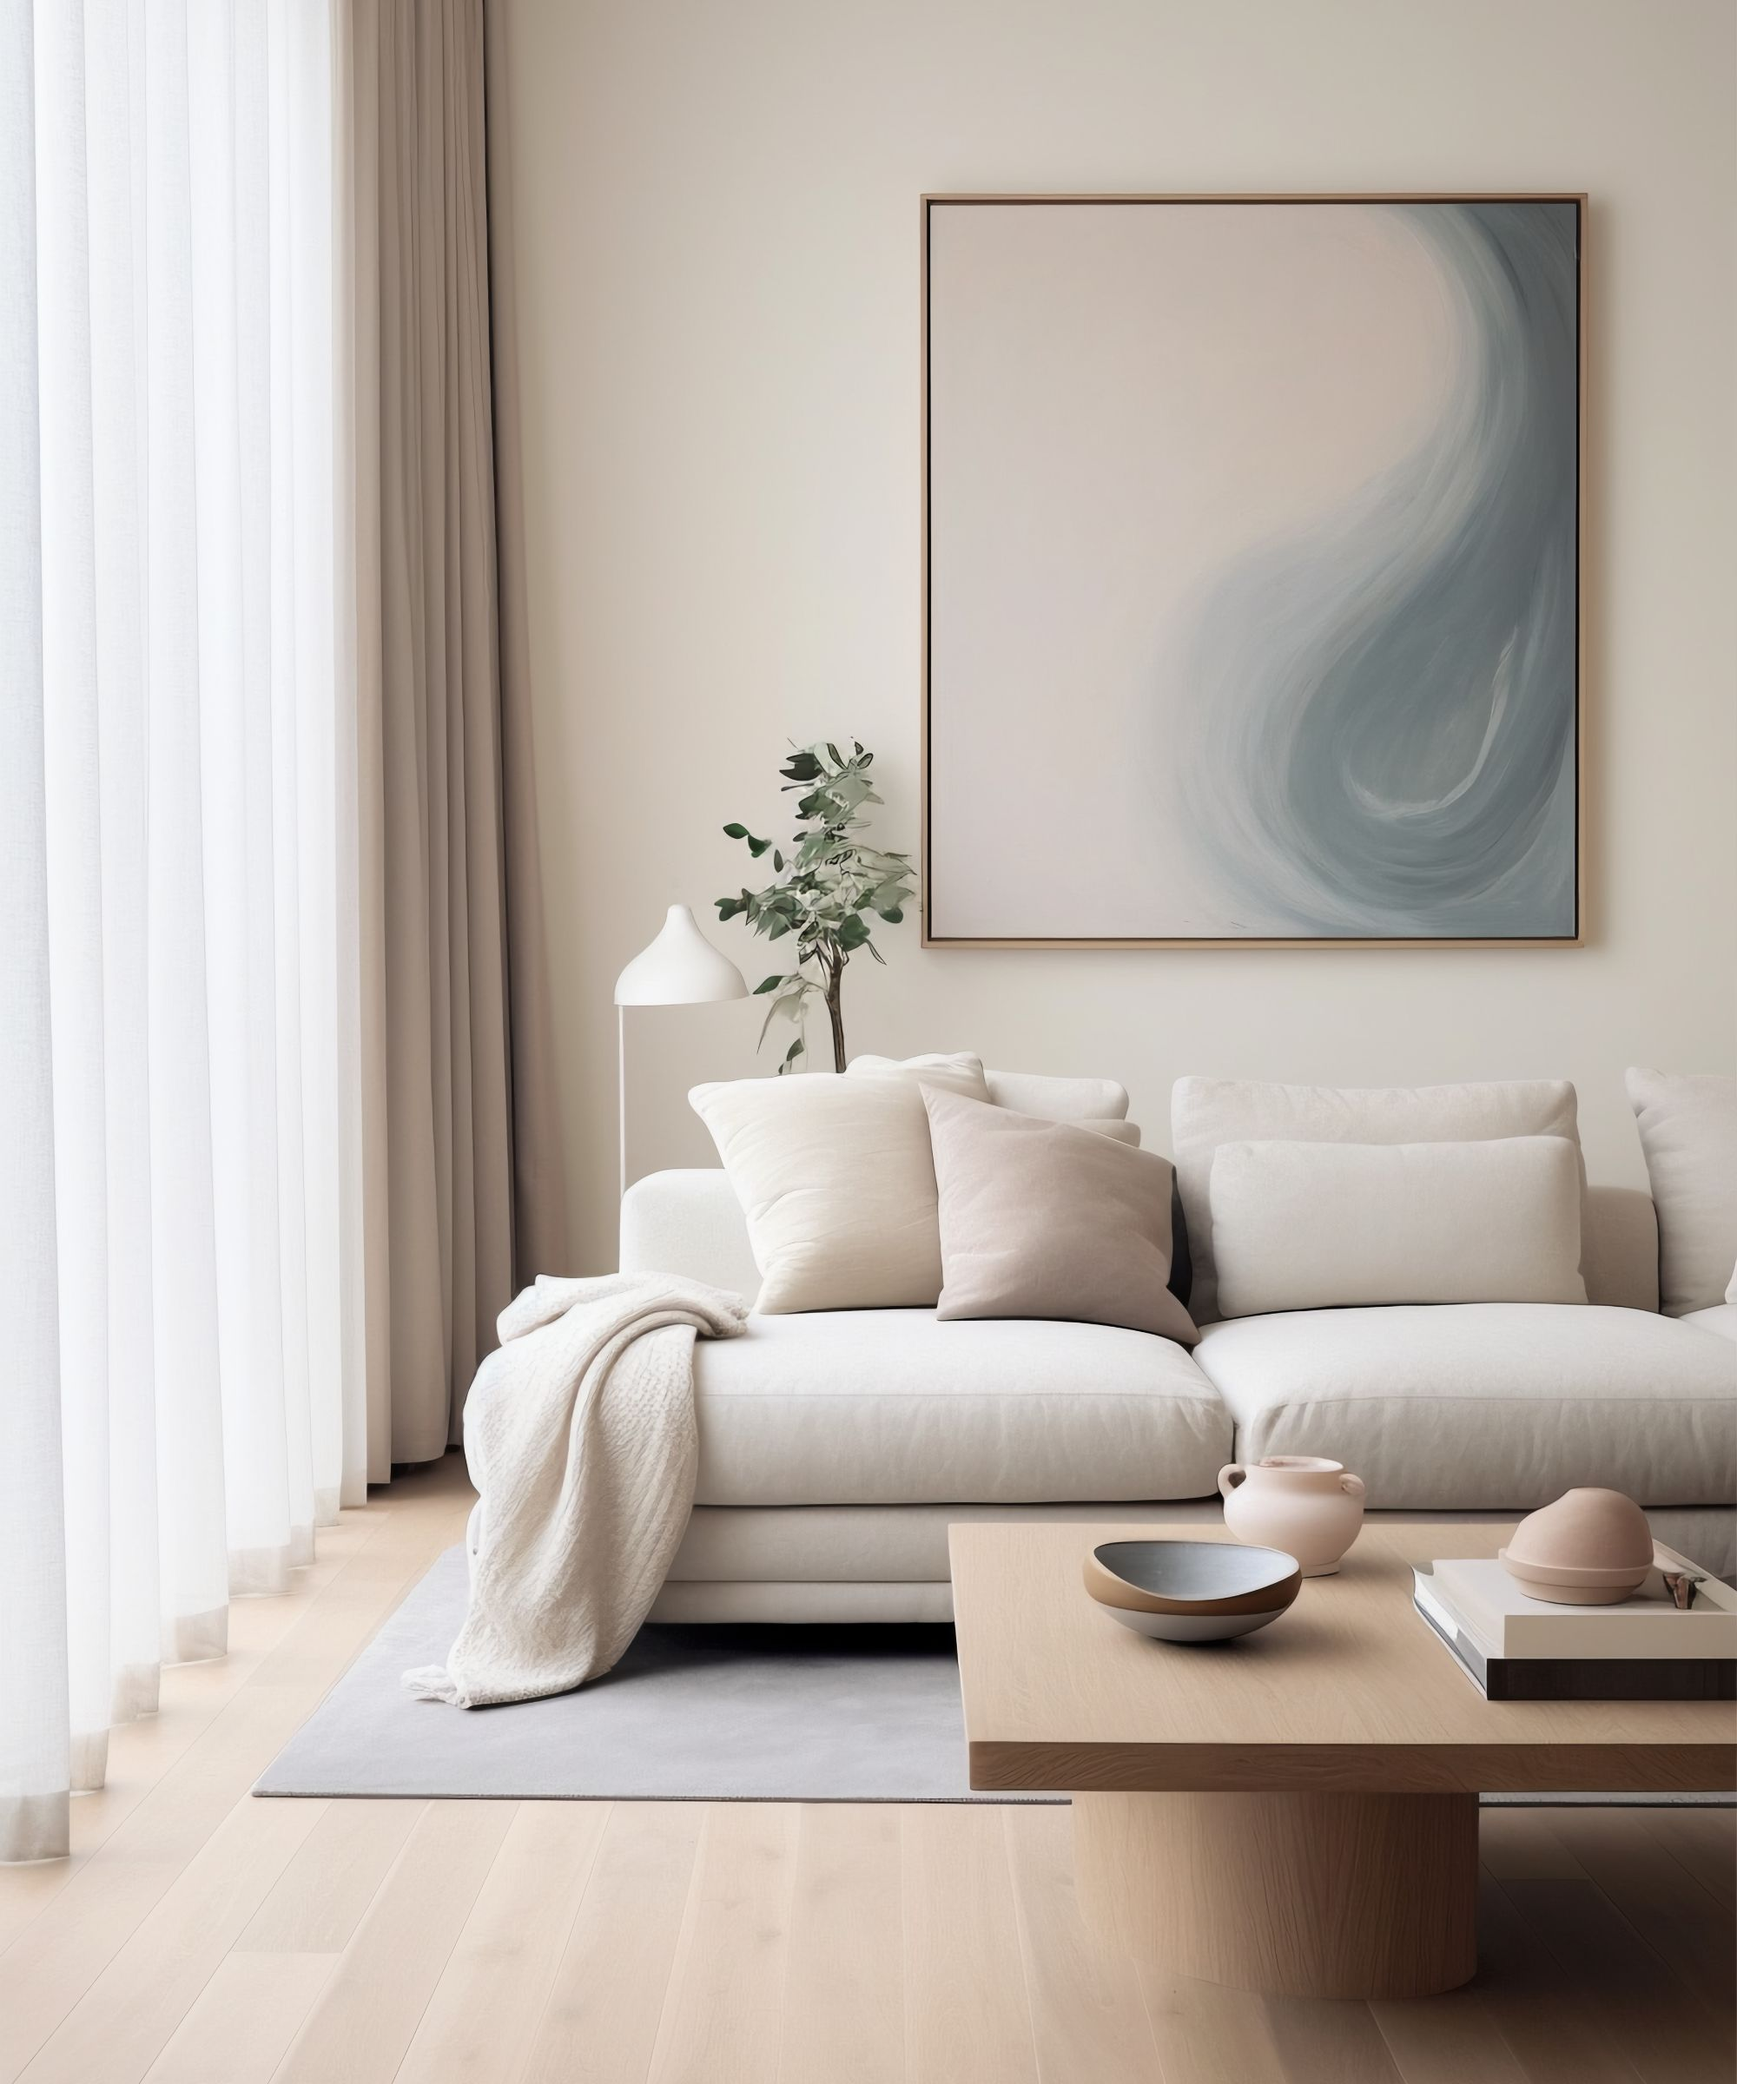
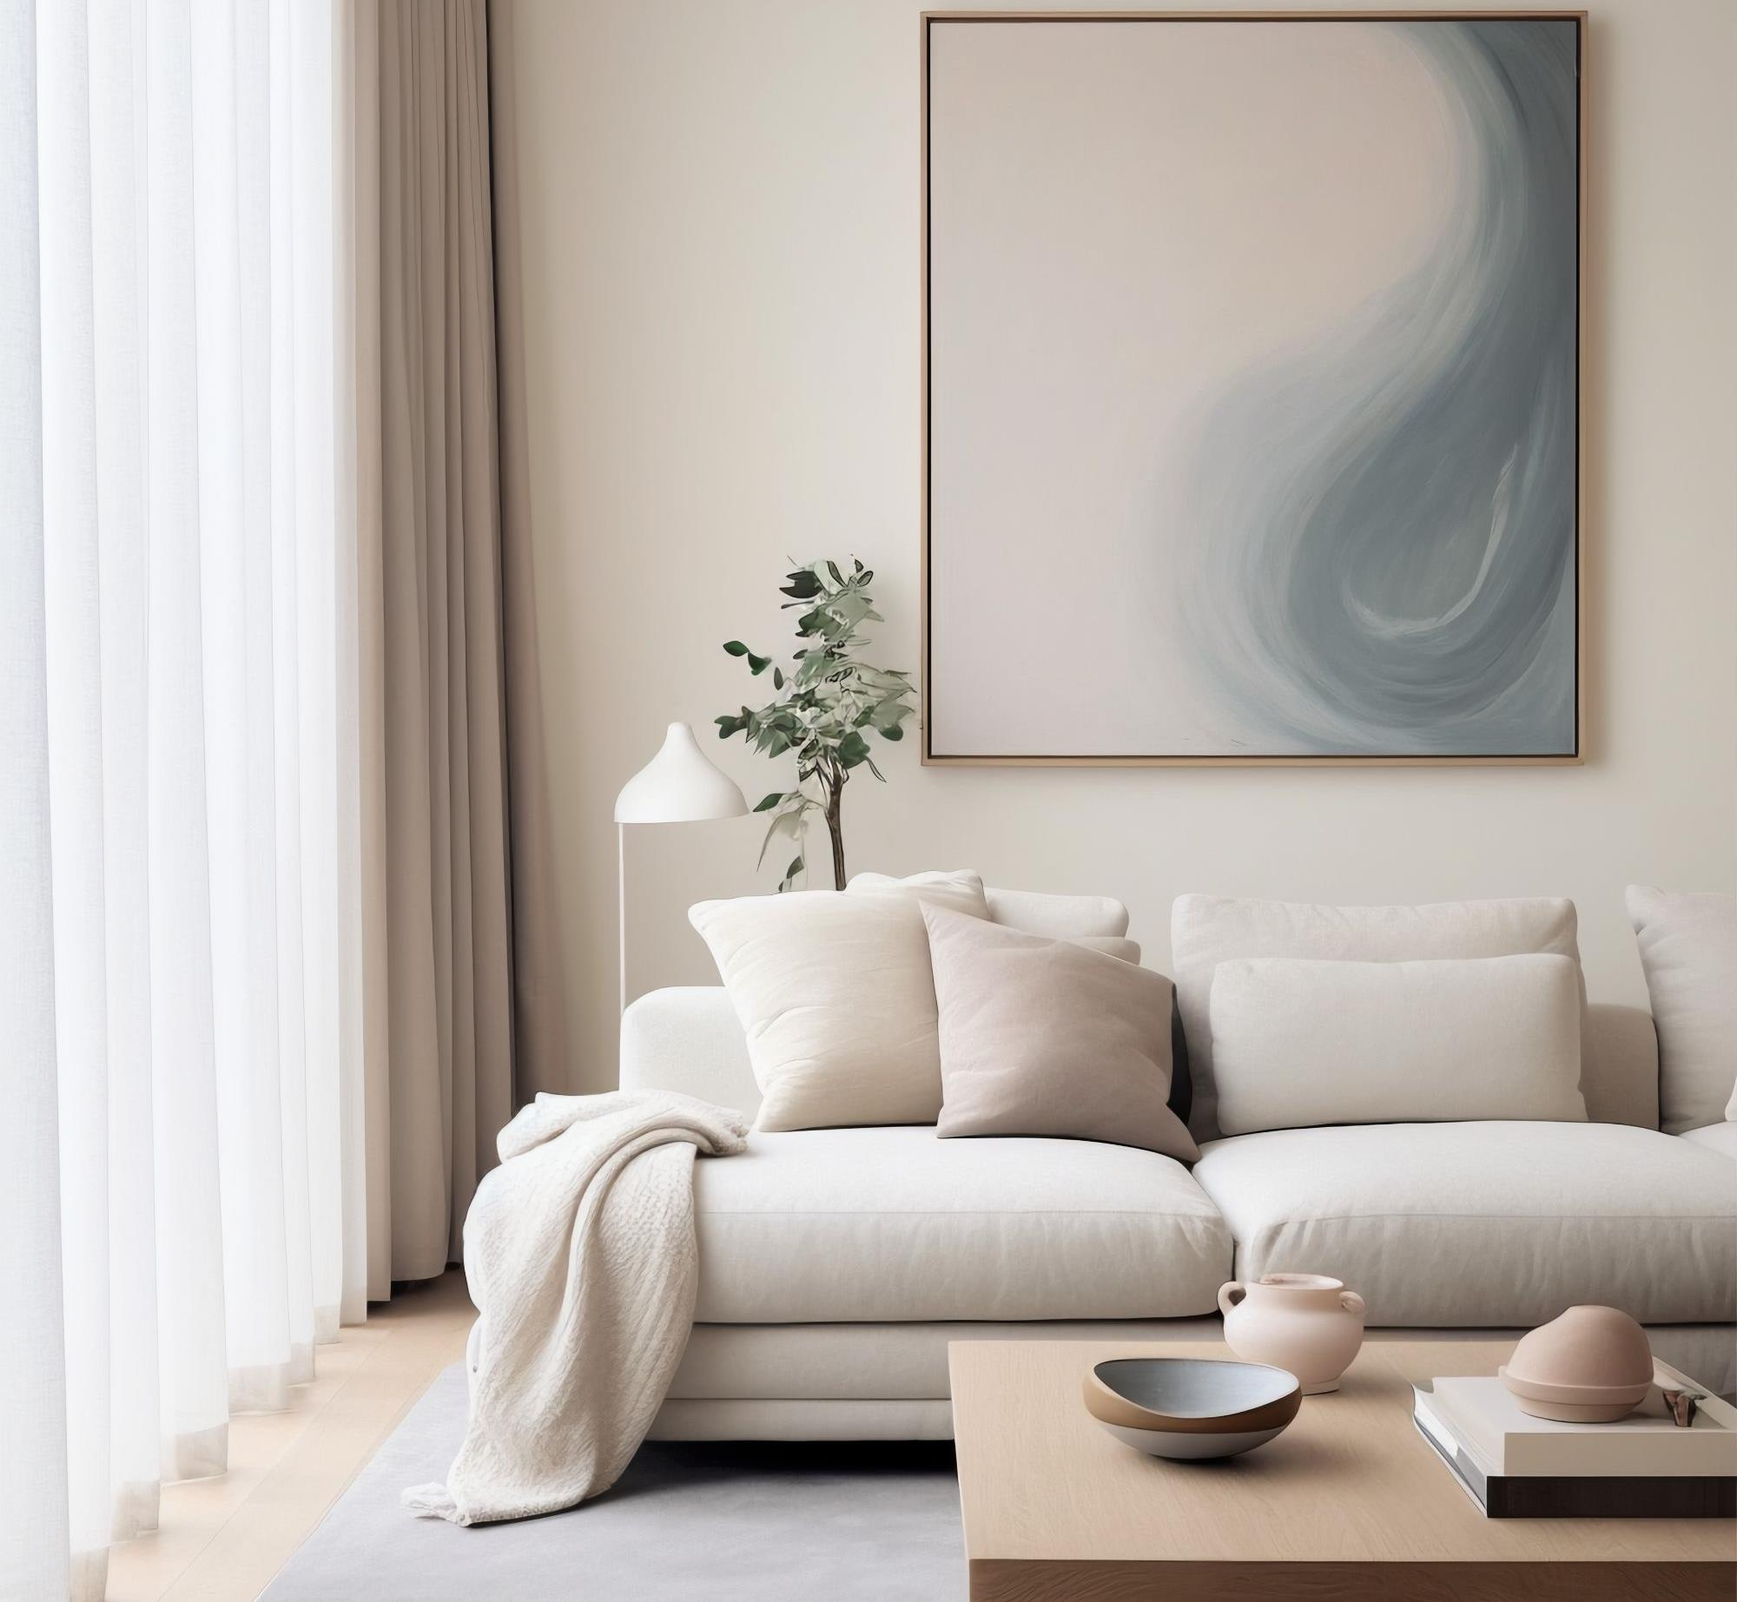
feat(buying): exact high-res cropped image and 568px container for homeownership section

diff --git a/buying.html b/buying.html
@@ -496,13 +496,13 @@ img {
 .buying-approach-img-wrap {
   position: relative;
   width: 615px;
-  height: 345px;
+  height: 568px;
   flex-shrink: 0;
 }
 
 .buying-approach-img {
   width: 615px;
-  height: 345px;
+  height: 568px;
   object-fit: cover;
   object-position: center;
   display: block;
@@ -2261,7 +2261,7 @@ li {
         
         <!-- Left Image with cyan outline -->
         <div class="buying-approach-img-wrap">
-          <img src="images/buying-approach.jpg" alt="A modern path to homeownership" class="buying-approach-img">
+          <img src="images/buying-approach.jpg?v=2" alt="A modern path to homeownership" class="buying-approach-img">
         </div>
 
         <!-- Right 5 Accordions -->
